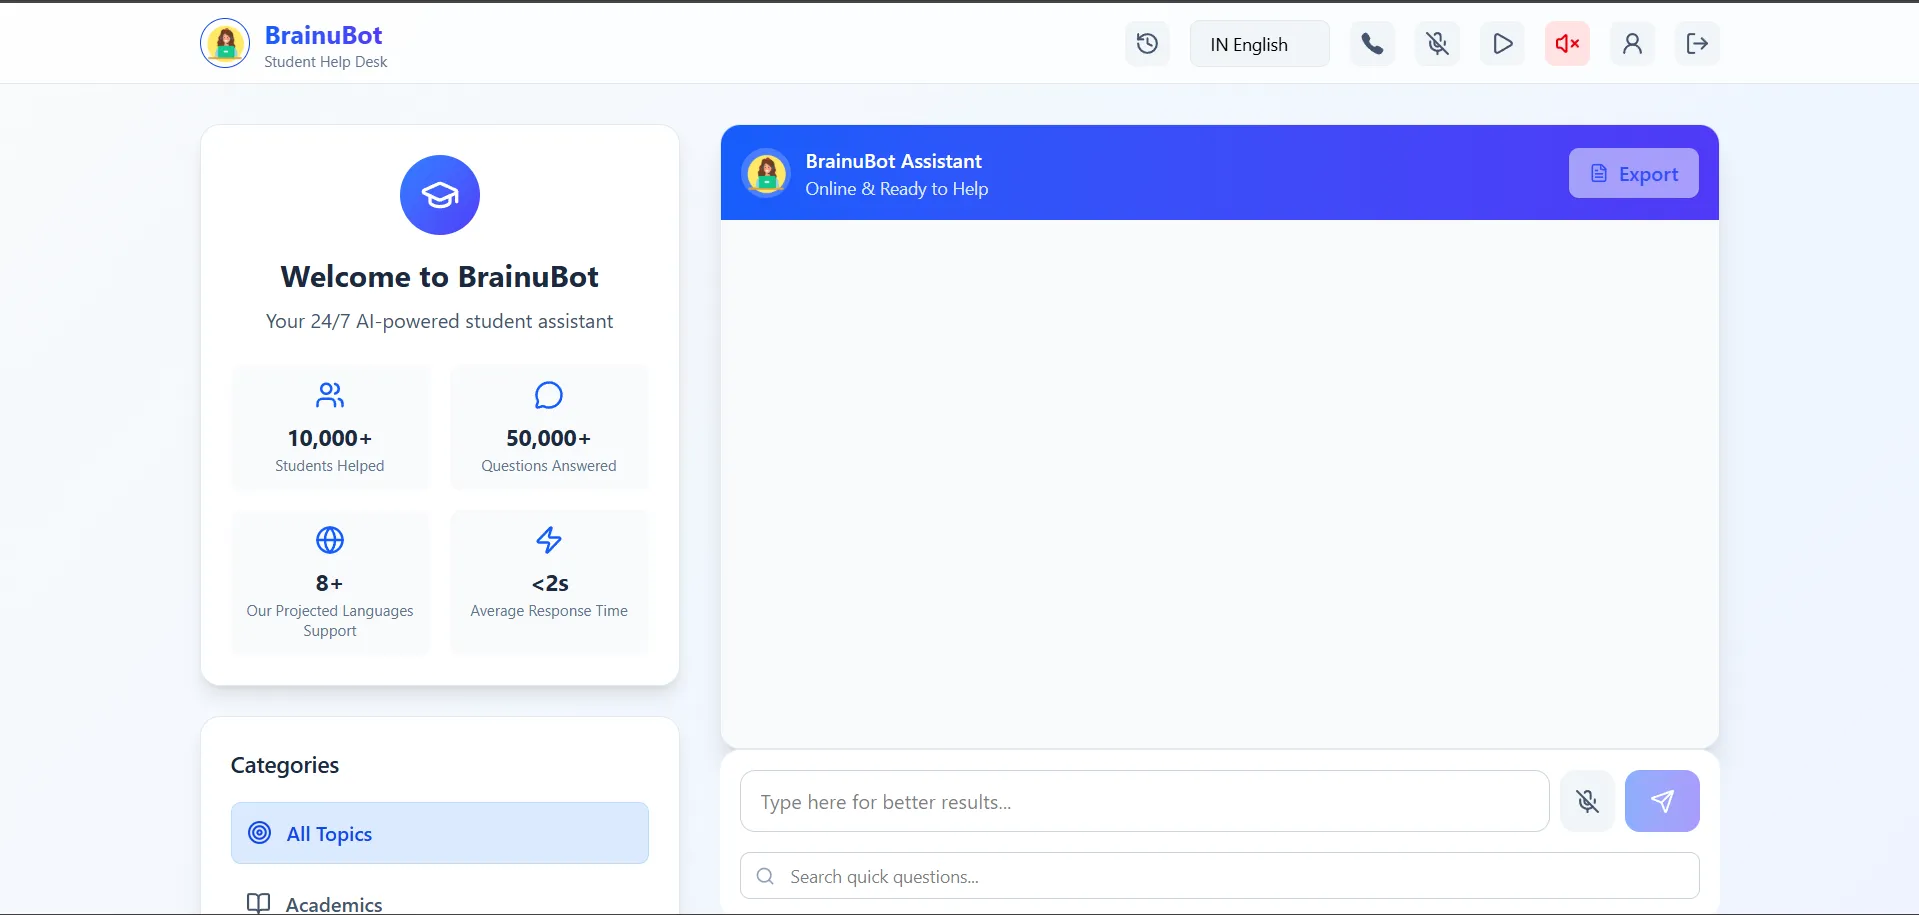
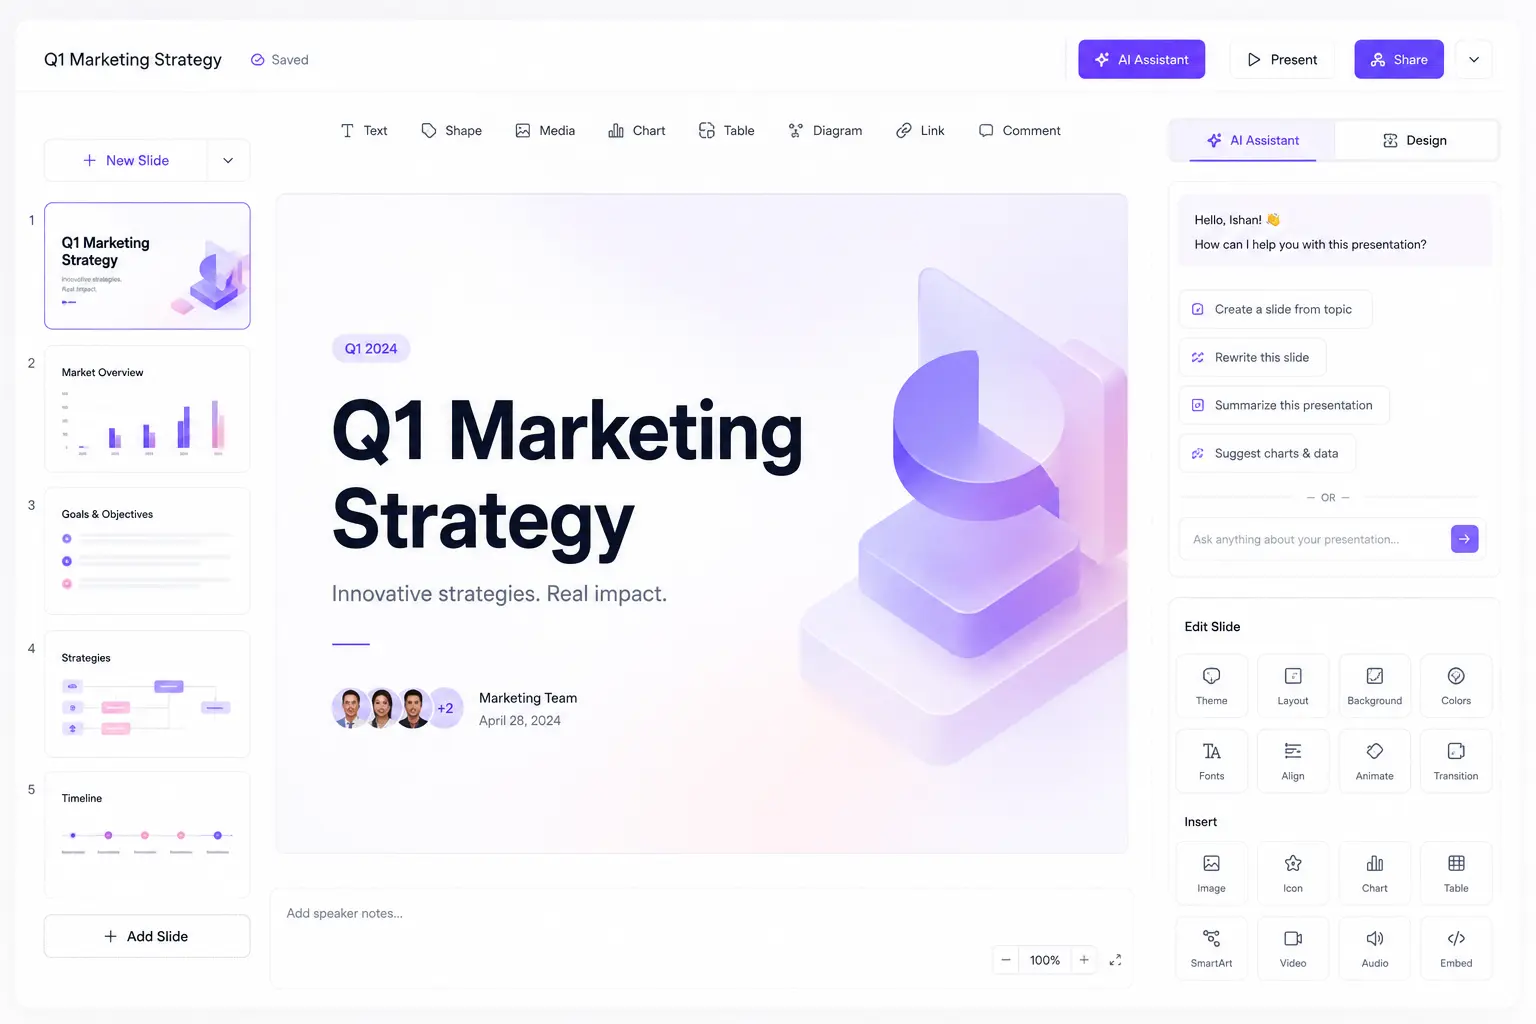
change:image name

diff --git a/src/pages/Experience.jsx b/src/pages/Experience.jsx
@@ -1,5 +1,5 @@
 import ExperienceSection from "@/componants/Experience";
-import PageFrame, { BackBar, Hatch } from "@/components/PageFrame";
+import PageFrame, { BackBar, Hatch, HLine } from "@/components/PageFrame";
 
 const Experience = () => (
   <PageFrame>
